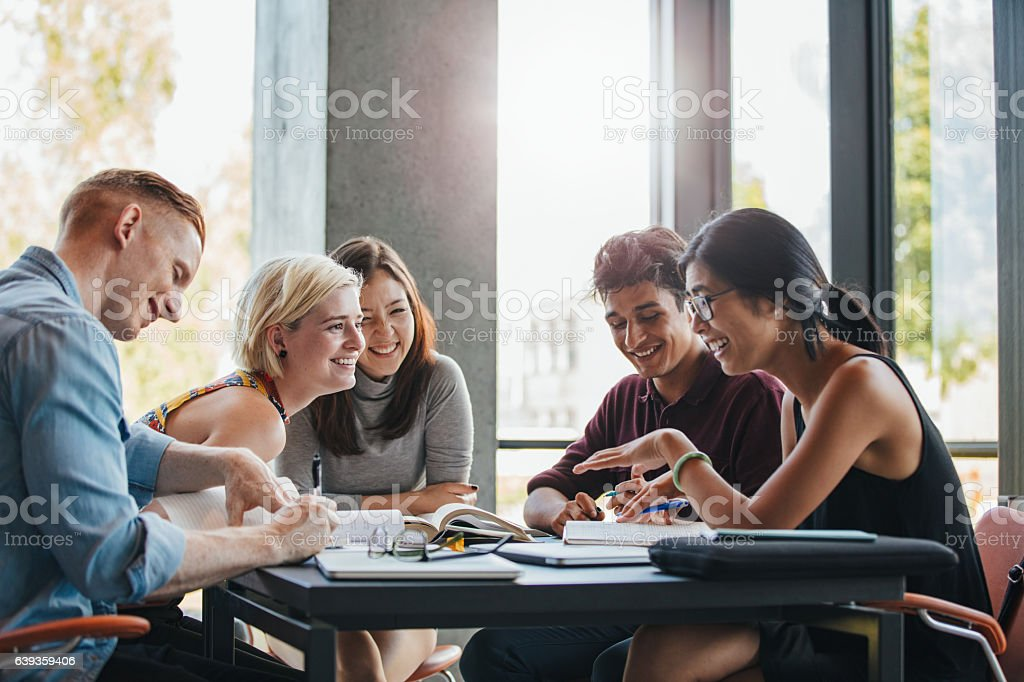
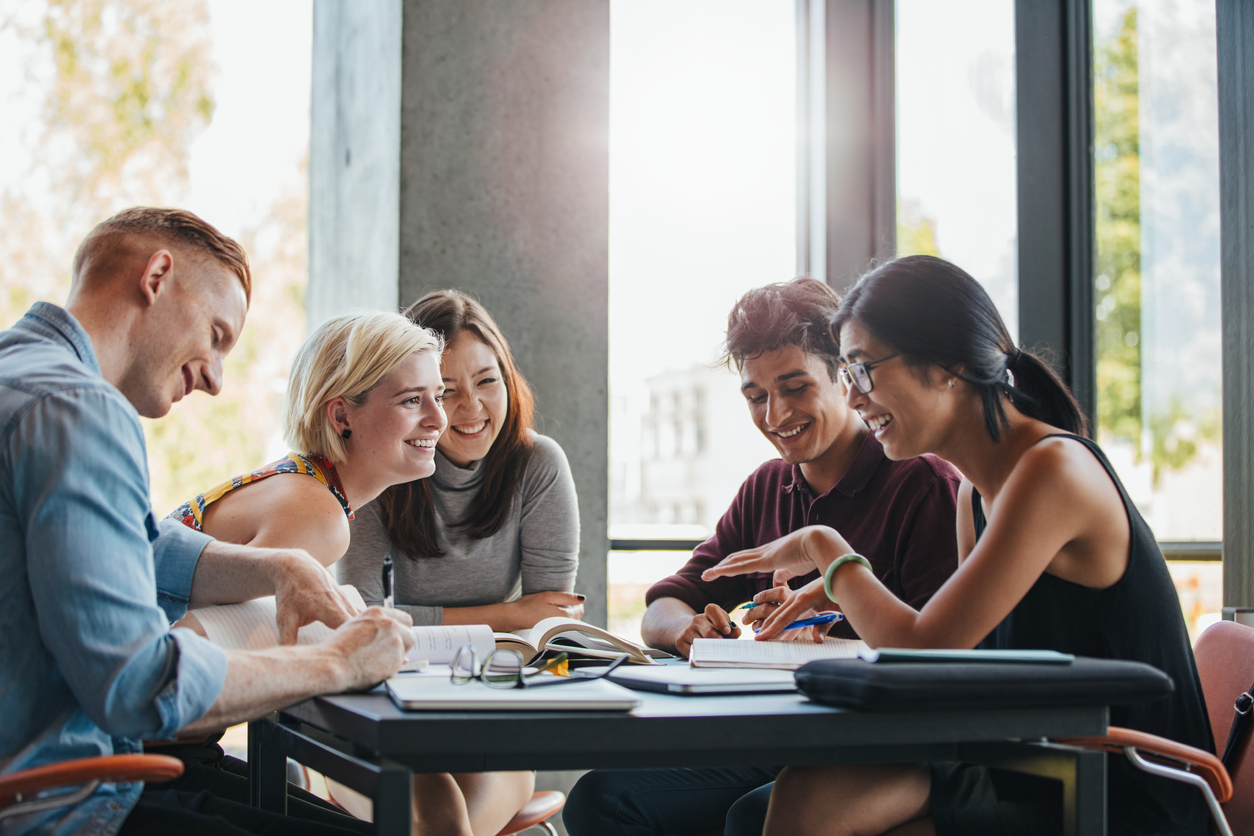
Changed hero-bg and edited FAQ

diff --git a/index.html b/index.html
@@ -5,7 +5,7 @@
   <meta charset="utf-8">
   <meta content="width=device-width, initial-scale=1.0" name="viewport">
 
-  <title>Tutoring Company Name - Index</title>
+  <title>Calbeckistan Academy - Main Page</title>
   <meta content="" name="description">
   <meta content="" name="keywords">
 
@@ -39,7 +39,7 @@
   <!-- ======= Header ======= -->
   <header id="header" class="fixed-top d-flex align-items-center">
     <div class="container d-flex align-items-center">
-      <h1 class="logo me-auto"><a href="index.html">Tutoring Company Name<span>.</span></a></h1>
+      <h1 class="logo me-auto"><a href="index.html">Calbeckistan Academy<span>.</span></a></h1>
       <!-- Uncomment below if you prefer to use an image logo -->
       <!-- <a href="index.html" class="logo me-auto"><img src="assets/img/logo.png" alt=""></a>-->
 
@@ -47,7 +47,7 @@
         <ul>
           <li><a class="nav-link scrollto active" href="#hero">Home</a></li>
           <li><a class="nav-link scrollto" href="#about">About</a></li>
-          <li><a class="nav-link scrollto" href="#services">Services</a></li>
+          <li><a class="nav-link scrollto" href="#courses">Courses</a></li>
           <li><a class="nav-link scrollto" href="#team">Team</a></li>
           <li><a class="nav-link scrollto" href="#contact">Contact</a></li>
         </ul>
@@ -64,7 +64,7 @@
     <div class="container" data-aos="zoom-out" data-aos-delay="100">
       <div class="row">
         <div class="col-xl-6">
-          <h1>The ultimate learning experience with Tutoring Company Name</h1>
+          <h1>The ultimate learning experience with Calbeckistan Academy</h1>
           <h2>We are team of tutors with the sole purpose of helping students learn and improve in a fun and engaging way</h2>
           <a href="#about" class="btn-get-started scrollto">Get Started</a>
           <a href="https://youtu.be/-yC4unKLI2c" class="venobox btn-watch-video" data-vbtype="video" data-autoplay="true" style="color: white;"><span><i class="icofont-play-alt-2"></i> Watch Video </span></a>
@@ -85,7 +85,7 @@
             <div class="content">
               <h3>Our goal is to find the spark that every student has, and then to use that spark to help the student excel as much as possible.</h3>
               <p>
-                Here at Tutoring Company Name, we truly believe that the best way anyone can learn is by direct experience. And the way we can get direct experience is by failing and learning from our mistakes. Students shouldn't be punished for making mistakes, but instead, we should embrace them to keep trying, so that they can learn and succeed.
+                Here at Calbeckistan Academy, we truly believe that the best way anyone can learn is by direct experience. And the way we can get direct experience is by failing and learning from our mistakes. Students shouldn't be punished for making mistakes, but instead, we should embrace them to keep trying, so that they can learn and succeed.
               </p>
             </div>
           </div>
@@ -152,9 +152,9 @@
 
           <div class="col-lg-3 col-md-6 mt-5 mt-lg-0">
             <div class="count-box">
-              <i class="bi bi-people"></i>
-              <span data-purecounter-start="0" data-purecounter-end="5" data-purecounter-duration="1" class="purecounter"></span>
-              <p>Tutors</p>
+              <i class="bi bi-award"></i>
+              <span data-purecounter-start="0" data-purecounter-end="3" data-purecounter-duration="1" class="purecounter"></span>
+              <p>Awards</p>
             </div>
           </div>
 
@@ -163,12 +163,12 @@
       </div>
     </section><!-- End Counts Section -->
 
-    <!-- ======= Services Section ======= -->
+    <!-- ======= Courses Section ======= -->
     <section id="services" class="services section-bg ">
       <div class="container" data-aos="fade-up">
 
         <div class="section-title">
-          <h2>Services</h2>
+          <h2>Courses</h2>
           <p>Here are the subjects we currently provide tutoring for.</p>
         </div>
 
@@ -313,12 +313,12 @@
       </div>
     </section><!-- End Testimonials Section -->
 
-    <!-- ======= Pricing Section ======= -->
+    <!-- ======= Classes Section ======= -->
     <section id="pricing" class="pricing section-bg">
       <div class="container" data-aos="fade-up">
 
         <div class="section-title">
-          <h2>Pricing</h2>
+          <h2>Classes</h2>
           <p>Here is our pricing, where you can set prices for different packages</p>
         </div>
 
@@ -382,55 +382,47 @@
         <ul class="faq-list accordion" data-aos="fade-up">
 
           <li>
-            <a data-bs-toggle="collapse" class="collapsed" data-bs-target="#faq1">Is Calbeck awesome? <i class="bx bx-chevron-down icon-show"></i><i class="bx bx-x icon-close"></i></a>
+            <a data-bs-toggle="collapse" class="collapsed" data-bs-target="#faq1">Is there homework for your class? <i class="bx bx-chevron-down icon-show"></i><i class="bx bx-x icon-close"></i></a>
             <div id="faq1" class="collapse" data-bs-parent=".faq-list">
               <p>
-                Absolutely yes.
+                Homework is not a typical part of any of the Calbeckistan classes. We do provide a review packet and materials so that you can study any necessary background information required before you come to your first class. Also we provide study guides and optional practice for anyone who wants to review our content at a later time.
               </p>
             </div>
           </li>
 
           <li>
-            <a data-bs-toggle="collapse" data-bs-target="#faq2" class="collapsed">Is Calbeck awesome? <i class="bx bx-chevron-down icon-show"></i><i class="bx bx-x icon-close"></i></a>
+            <a data-bs-toggle="collapse" data-bs-target="#faq2" class="collapsed">Is there a virtual option? <i class="bx bx-chevron-down icon-show"></i><i class="bx bx-x icon-close"></i></a>
             <div id="faq2" class="collapse" data-bs-parent=".faq-list">
               <p>
-                Absolutely yes.
+                We do not currently offer a virtual option. Calbeckistan Academy was started partly because of how terrible most virtual classes have been for so many students. We believe that there is something important and fundamental about being together in person. Currently all classes are offered in a small group setting.
               </p>
             </div>
           </li>
 
           <li>
-            <a data-bs-toggle="collapse" data-bs-target="#faq3" class="collapsed">Is Calbeck awesome? <i class="bx bx-chevron-down icon-show"></i><i class="bx bx-x icon-close"></i></a>
+            <a data-bs-toggle="collapse" data-bs-target="#faq3" class="collapsed">What prior knowledge is required? <i class="bx bx-chevron-down icon-show"></i><i class="bx bx-x icon-close"></i></a>
             <div id="faq3" class="collapse" data-bs-parent=".faq-list">
               <p>
-                Absolutely yes.
+                It depends on the class, but we would hope you would have a basic concept of whatever class came directly before. For example, if you take our Trig Foundations class, we would expect you to have passed Algebra 2, or integrated 3, depending on your school. When you reserve a spot for a class, you will receive a list of content to review, as well as materials to help you remember anything you may have forgotten.
               </p>
             </div>
           </li>
 
           <li>
-            <a data-bs-toggle="collapse" data-bs-target="#faq4" class="collapsed">Is Calbeck awesome? <i class="bx bx-chevron-down icon-show"></i><i class="bx bx-x icon-close"></i></a>
+            <a data-bs-toggle="collapse" data-bs-target="#faq4" class="collapsed">How is this different from a regular tutor?<i class="bx bx-chevron-down icon-show"></i><i class="bx bx-x icon-close"></i></a>
             <div id="faq4" class="collapse" data-bs-parent=".faq-list">
               <p>
-                Absolutely yes.
+                There are many things different about Calbeckistan Academy. First of all, our teachers are actual teachers in high school. Not only that, they are the best teachers. Have you ever taken a class from a teacher that completely transformed your view on the subject (in a good way)? We only hire teachers who fit this mold.<br><br>Secondly, we don’t try to fix the spots you are confused about, or help with homework. Our goal is to prepare you before the class starts or as a way to get you started. By giving you the foundations, the core ideas of your class, we help you not need tutoring in the first place. You’ll understand the WHY, so the HOW will feel so much easier. We will help you not have any gaps to fill in the first place.<br><br>Lastly, because we are helping before your class starts, we help make class more productive. Since you have the foundation, when your teacher is teaching you in your regular class, it will make so much more sense. When you do your homework, it won’t be confusing, it can actually be practice. Essentially our goal is to help make all the stuff you already do in class much more effective, so you can maximize your free time over the semester.<br>
+
               </p>
             </div>
           </li>
 
           <li>
-            <a data-bs-toggle="collapse" data-bs-target="#faq5" class="collapsed">Is Calbeck awesome? <i class="bx bx-chevron-down icon-show"></i><i class="bx bx-x icon-close"></i></a>
+            <a data-bs-toggle="collapse" data-bs-target="#faq5" class="collapsed">Are you a hacker? Can you hack into my teacher’s gradebook? <i class="bx bx-chevron-down icon-show"></i><i class="bx bx-x icon-close"></i></a>
             <div id="faq5" class="collapse" data-bs-parent=".faq-list">
               <p>
-                Absolutely yes.
-              </p>
-            </div>
-          </li>
-
-          <li>
-            <a data-bs-toggle="collapse" data-bs-target="#faq6" class="collapsed">Is Calbeck awesome? <i class="bx bx-chevron-down icon-show"></i><i class="bx bx-x icon-close"></i></a>
-            <div id="faq6" class="collapse" data-bs-parent=".faq-list">
-              <p>
-                Absolutely yes.
+                Calbeck cannot confirm or deny any abilities he may or may not have regarding hacking. Direct grade change is not a service we offer at this time, and would not recommend trying it, as it is illegal. However, we can guarantee after taking one of our foundations classes that you will have a better experience in math class, understand far more, and be more likely to have one of the best grades you’ve ever had in math.
               </p>
             </div>
           </li>
